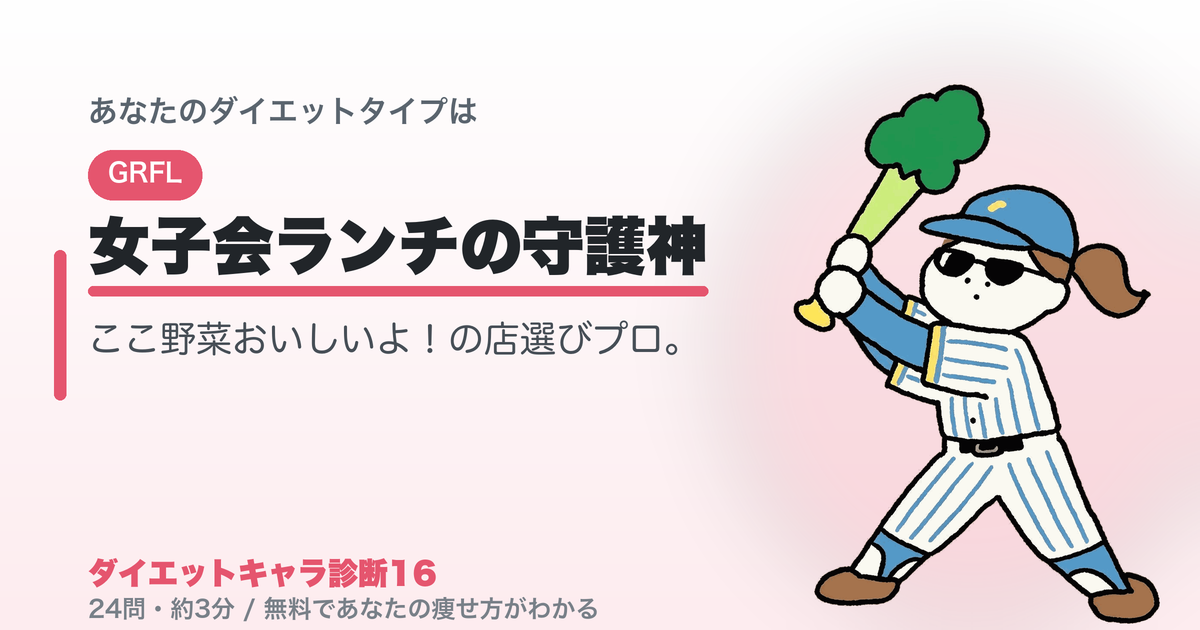
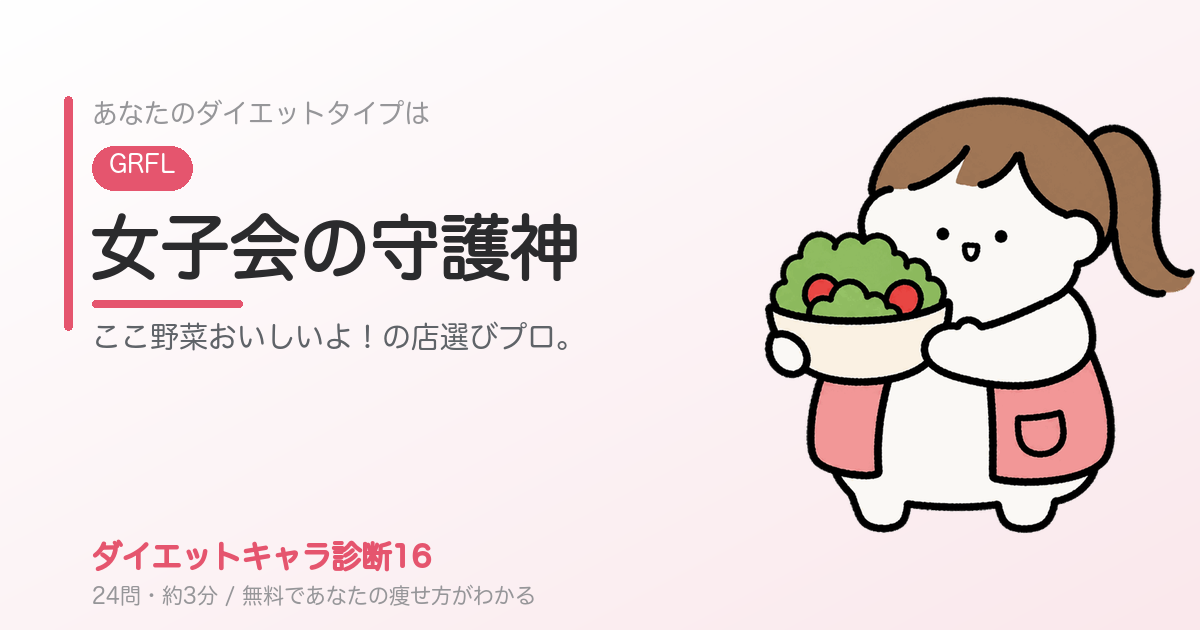
Redesign 女子会の守護神 (GRFL): new on-brand illustration + shorter name
- 名称を「女子会ランチの守護神」→「女子会の守護神」に短縮（16体で最長だったため）
- イラストを野球選手→サラダを掲げる守り手に一新。既存15体のゆるカワ・タッチ
  （白い丸ブロブ/点目/ラフ線/フラット塗り）に合わせて描き直し、GR系のローズ配色も反映
- OGPカード(public/ogp/GRFL.png)を新名・新キャラで作り直し
- new3/gallery 差し替え、関連コメントも更新

Claude-Session: https://claude.ai/code/session_01W8Bw9ryvGVhvzCtsizXKPU

Changed region(s): [[0.6167, 0.1206, 1.0, 0.9952], [0.0308, 0.1508, 0.5858, 0.6333], [0.0617, 0.8444, 0.4933, 0.9952]]

diff --git a/src/lib/scoring.ts b/src/lib/scoring.ts
@@ -41,7 +41,7 @@ export function determineType(scores: Score): string {
   // 全軸を一律 ">= 0" にすると、バランスよく答えた人・迷って揺れた人が
   // 必ず最も極端な「SRFQ（鶏むね仙人）」に落ちてしまうため。
   // 同点時は S/R/F/Q に一律で寄せず、より共感されやすい中庸タイプ
-  //（GRFL＝女子会ランチの守護神）へ着地するよう境界を調整している。
+  //（GRFL＝女子会の守護神）へ着地するよう境界を調整している。
   typeCode += scores.SG > 0 ? 'S' : 'G';   // 同点 → G（みんな型）
   typeCode += scores.RE >= 0 ? 'R' : 'E';  // 同点 → R（計画型）
   typeCode += scores.FC >= 0 ? 'F' : 'C';  // 同点 → F（質重視型）

diff --git a/src/data/characterSlugs.ts b/src/data/characterSlugs.ts
@@ -9,7 +9,7 @@ export const characterSlugs: Record<string, string> = {
   SECQ: 'night-personality',     // 昼夜二重人格
   SECL: 'knowledge-collector',   // 脳内アスリート
   GRFQ: 'morning-king',         // 朝活マウント王
-  GRFL: 'lunch-guardian',       // 女子会ランチの守護神
+  GRFL: 'lunch-guardian',       // 女子会の守護神
   GRCQ: 'diet-fighter',         // 減量ファイター
   GRCL: 'diet-manager',         // ダイエット部の部長
   GEFQ: 'trend-surfer',         // トレンドサーファー

diff --git a/src/data/diagramTypes.ts b/src/data/diagramTypes.ts
@@ -263,7 +263,7 @@ export const diagramTypes: DiagramTypes = {
     }
   },
   GRFL: {
-    name: '女子会ランチの守護神',
+    name: '女子会の守護神',
     emoji: '🥗',
     catchcopy: 'ここ野菜おいしいよ！の店選びプロ。',
     relatable: [
